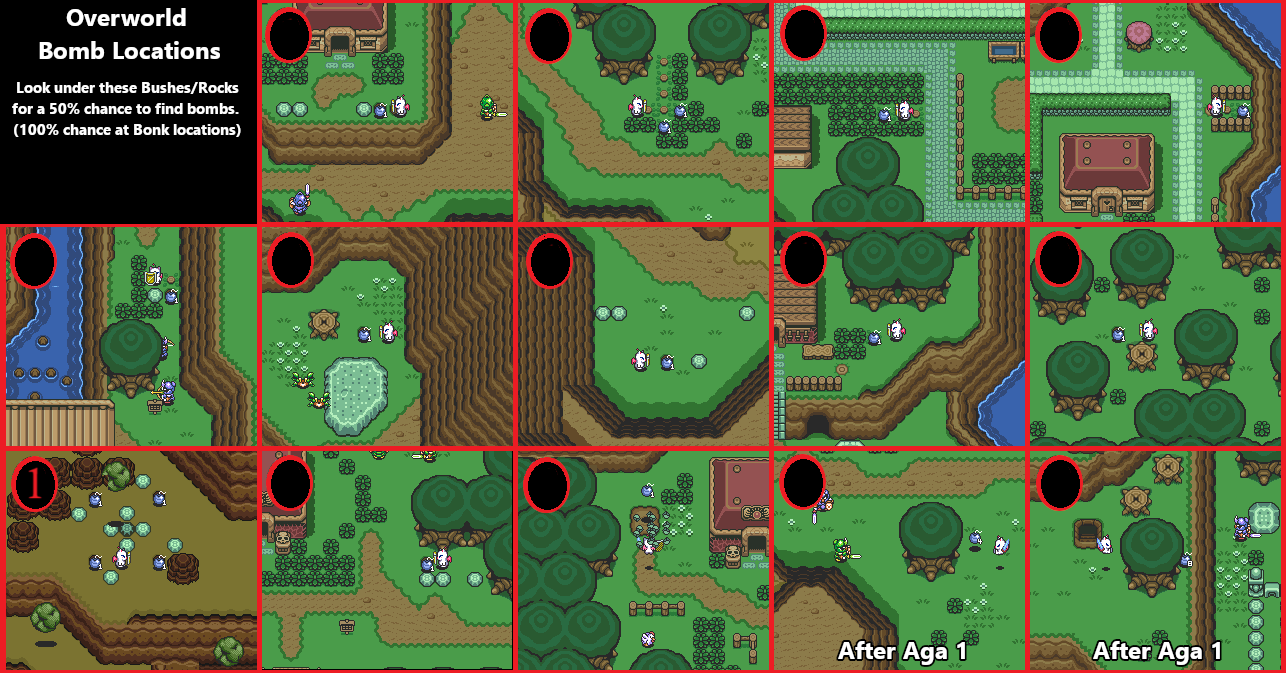
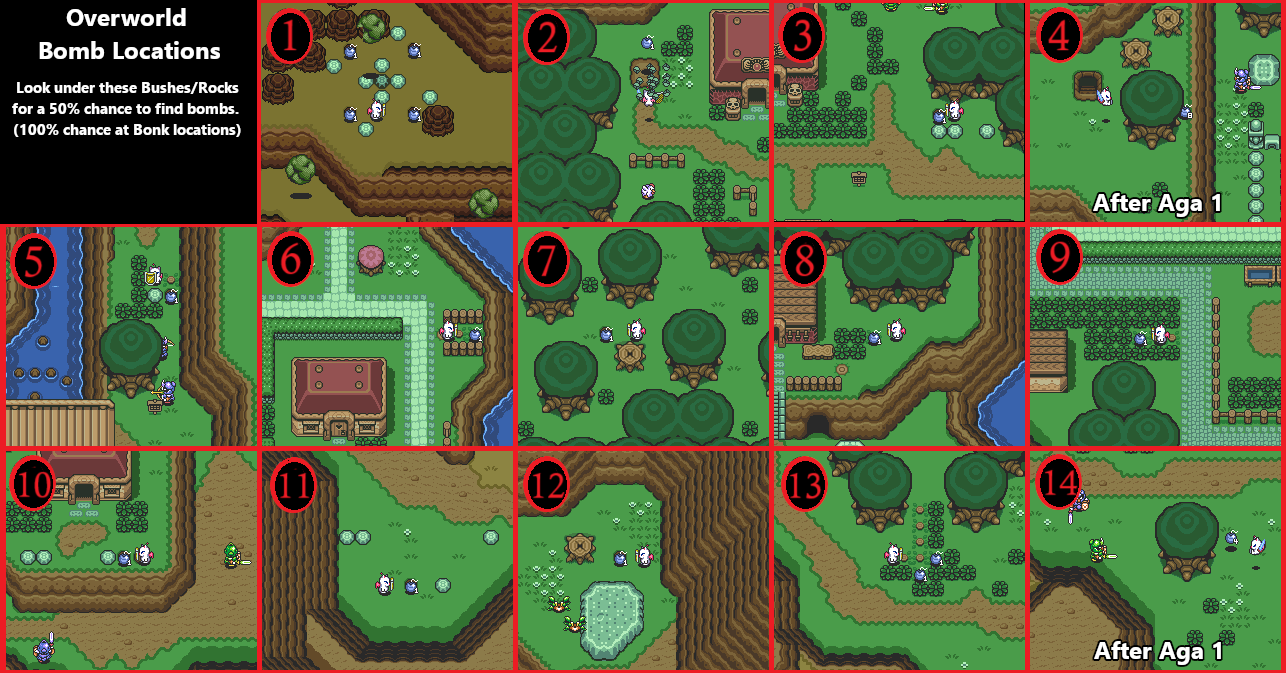
Adding light world bomb locations

diff --git a/dungeon-info.md b/dungeon-info.md
@@ -2,6 +2,8 @@
 layout: default
 title: Dungeon Info
 ---
+[//]: # (Top Anchor)
+<a name="top"></a>
 
 This page contains item information about each of the dungeons.
 
@@ -20,6 +22,7 @@ This page contains item information about each of the dungeons.
 11. [Turtle Rock](#turtle-rock)
 12. [Gannon's Tower](#gannons-tower)
 
+[Back to Top](#top)
 ### Hyrule Castle Escape
 - **Item Locations**: 8
 - **Non-Dungeon Items**: 6
@@ -28,7 +31,8 @@ This page contains item information about each of the dungeons.
 - **Mob Keys**: 3
 - [View Dark Room Maps](/maps/dark-room-maps.md#hyrule-castle-escape)
 
-### Eastern Palace
+[Back to Top](#top)
+### Eastern Palace 
 - **Item Locations**: 6
 - **Non-Dungeon Items**: 3
 - **Total Keys**: 2
@@ -38,6 +42,7 @@ This page contains item information about each of the dungeons.
 - [View Full Dungeon Map](/maps/full-dungeon-maps.md#eastern-palace)
 - [View Dark Room Maps](/maps/dark-room-maps.md#eastern-palace)
 
+[Back to Top](#top)
 ### Desert Palace
 - **Item Locations**: 6
 - **Non-Dungeon Items**: 2 
@@ -46,6 +51,7 @@ This page contains item information about each of the dungeons.
 - **Pot Keys**: 3
 - [View Full Dungeon Map](/maps/full-dungeon-maps.md#desert-palace)
 
+[Back to Top](#top)
 ### Tower of Hera
 - **Item Locations**: 6 
 - **Non-Dungeon Items**: 2
@@ -53,6 +59,7 @@ This page contains item information about each of the dungeons.
 - **Chest Keys**: 1
 - [View Full Dungeon Map](/maps/full-dungeon-maps.md#tower-of-hera)
 
+[Back to Top](#top)
 ### Palace of Darkness
 - **Item Locations**: 14
 - **Non-Dungeon Items**: 5
@@ -61,6 +68,7 @@ This page contains item information about each of the dungeons.
 - [View Full Dungeon Map](/maps/full-dungeon-maps.md#palace-of-darkness)
 - [View Dark Room Maps](/maps/dark-room-maps.md#palace-of-darkness)
 
+[Back to Top](#top)
 ### Swamp Palace
 - **Item Locations**: 10
 - **Non-Dungeon Items**: 6
@@ -69,6 +77,7 @@ This page contains item information about each of the dungeons.
 - **Pot Keys**: 4
 - [View Full Dungeon Map](/maps/full-dungeon-maps.md#swamp-palace)
 
+[Back to Top](#top)
 ### Skull Woods
 - **Item Locations**: 8
 - **Non-Dungeon Items**: 2
@@ -78,6 +87,7 @@ This page contains item information about each of the dungeons.
 - **Pot Keys**: 1
 - [View Full Dungeon Map](/maps/full-dungeon-maps.md#skull-woods)
 
+[Back to Top](#top)
 ### Thieves Town
 - **Item Locations**: 8
 - **Non-Dungeon Items**: 4
@@ -86,6 +96,7 @@ This page contains item information about each of the dungeons.
 - **Pot Keys**: 2
 - [View Full Dungeon Map](/maps/full-dungeon-maps.md#thieves-town)
 
+[Back to Top](#top)
 ### Misery Mire
 - **Item Locations**: 8
 - **Non-Dungeon Items**: 2
@@ -96,6 +107,7 @@ This page contains item information about each of the dungeons.
 - [View Full Dungeon Map](/maps/full-dungeon-maps.md#misery-mire)
 - [View Dark Room Maps](/maps/dark-room-maps.md#misery-mire)
 
+[Back to Top](#top)
 ### Ice Palace
 - **Item Locations**: 8
 - **Non-Dungeon Items**: 3
@@ -105,6 +117,7 @@ This page contains item information about each of the dungeons.
 - **Pot Keys**: 2
 - [View Full Dungeon Map](/maps/full-dungeon-maps.md#ice-palace)
   
+[Back to Top](#top)
 ### Turtle Rock
 - **Item Locations**: 12
 - **Non-Dungeon Items**: 5 
@@ -114,6 +127,7 @@ This page contains item information about each of the dungeons.
 - [View Full Dungeon Map](/maps/full-dungeon-maps.md#turtle-rock)
 - [View Dark Room Maps](/maps/dark-room-maps.md#turtle-rock)
 
+[Back to Top](#top)
 ### Gannon's Tower
 - **Item Locations**: 27
 - **Non-Dungeon Items**: 20

diff --git a/tips-and-tricks.md b/tips-and-tricks.md
@@ -1,22 +1,39 @@
 
+---
+layout: default
+title: Tips and Tricks
+---
+[//]: # (Top Anchor)
+<a name="top"></a>
+
 ## Table of Contents
 1. [Archery Game Tip](#archery-game)
 2. [Graveyard Dark World Path](#graveyard-dark-world-path)
 3. [Hookshotless Bumper Cave](#hookshotless-bumper-cave)
-4. [Bomb Locations](#bomb-locations)
+4. [Light World Bomb Locations](#light-world-bomb-locations)
+5. [Dark World Bomb Locations](#dark-world-bomb-locations)
 
+[Back to Top](#top)
 ### Archery Game
 ![Archery Game Image](/images/tips/archery-game.png)
 
+[Back to Top](#top)
 ### Graveyard Dark World Path
 ![Graveyard Path Image](/images/tips/dark-graveyard-path.png)
 
+[Back to Top](#top)
 ### Hookshotless Bumper Cave
 ![Hookshotless Bumper Cave](/images/tips/hookless-bumper-cave.gif)
 
-### Bomb Locations 
+[Back to Top](#top)
+### Light World Bomb Locations
 
-#### Dark World
+![Bomb Locations Dark World](/images/tips/bomb-locations-light.png)
+
+![Bomb Locations Dark World Map](/images/tips/bomb-locations-light-world-map.png)
+
+[Back to Top](#top)
+### Dark World Bomb Locations
 ![Bomb Locations Dark World](/images/tips/bomb-locations-dark.png)
 
 ![Bomb Locations Dark World Map](/images/tips/bomb-locations-dark-world-map.png)
